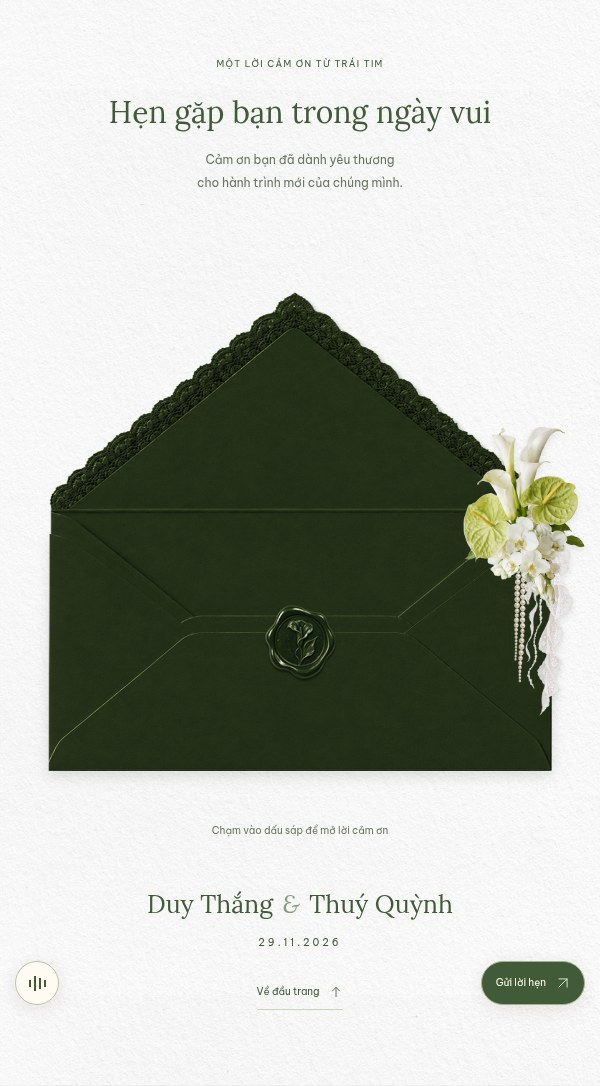
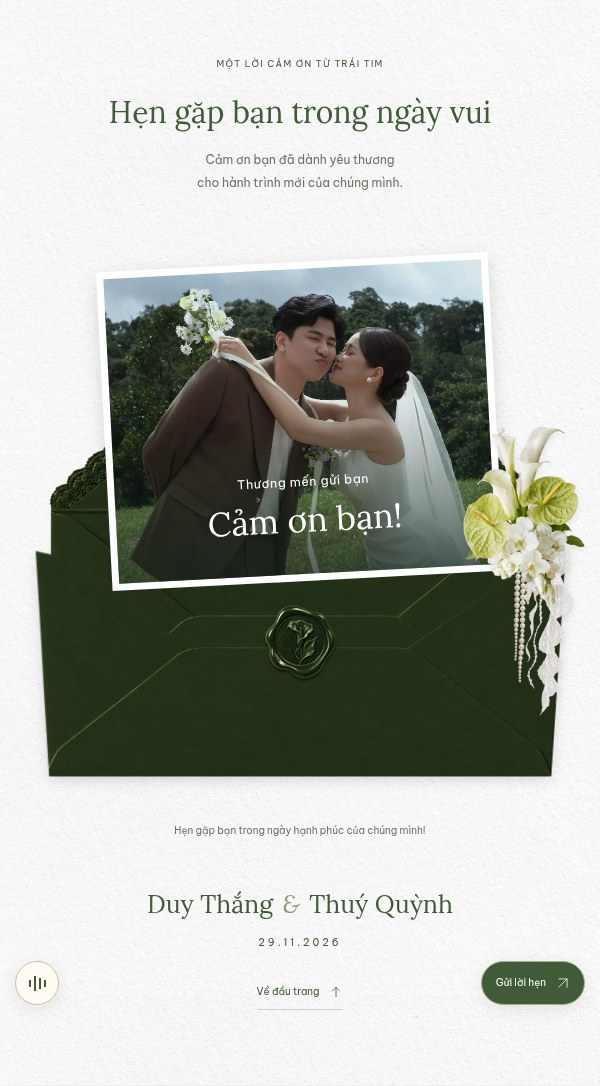
Keep the final green thank-you envelope always open with its photo

diff --git a/src/wedding.css b/src/wedding.css
@@ -47,25 +47,22 @@
 .gallery-item{flex:0 0 calc((100% - 36px)/5);aspect-ratio:1;border:2px solid transparent;padding:3px;background:transparent;scroll-snap-align:center;transition:border-color .2s,opacity .2s;opacity:.65;min-width:0}
 .gallery-item[aria-pressed=true]{border-color:var(--wine);opacity:1}.gallery-item:hover,.gallery-item:focus-visible{opacity:1}.gallery-item img{width:100%;height:100%;object-fit:cover;object-position:center 40%}
 .album-hint{text-align:center;font:9px/1.9 var(--sans);color:var(--muted);margin-top:15px}
-.rsvp-section,.wishes-section{padding-top:35px}.rsvp-section{border-top:1px solid #d7e0cb}.rsvp-section .section-script{font-size:36px}form{margin-top:26px;color:var(--ink)}form>label,legend{font:11px/1.7 var(--sans);display:block;margin-bottom:9px}input:not([type=radio]),select,textarea{width:100%;border:1px solid #bacba9;background:#ffffff80;border-radius:0;padding:13px 12px;min-height:49px;font:16px/1.6 var(--sans);color:var(--ink);margin-bottom:22px;resize:vertical}input:focus,textarea:focus,select:focus{outline:1px solid var(--wine)}fieldset{padding:0;border:0;margin:0 0 23px;display:flex;flex-wrap:wrap;gap:12px}legend{margin-bottom:10px}.radio-label{font:10px/1.8 var(--sans);display:flex;align-items:center;gap:6px}.radio-label input{accent-color:var(--wine);width:16px;height:16px;margin:0}form>.primary{width:100%;justify-content:space-between;font-size:10px;padding:14px 18px}.form-note{font:9px/1.9 var(--sans);color:var(--muted);margin-top:14px}#rsvp-result,#wish-result{font:11px/1.8 var(--sans);margin-top:10px;color:var(--wine)}.wishes-section>.section-note{margin-bottom:30px}.wishes-list{max-height:540px;overflow:auto;margin-top:25px}.wish-card{border-bottom:1px solid #d6dfcb;padding:24px 0}.wish-card p{font:italic 21px/1.65 var(--serif);color:#627356;overflow-wrap:anywhere}.wish-card h3{font:11px/1.8 var(--sans);margin-top:14px}.wish-card small{font:8px/1.8 var(--sans);letter-spacing:.7px;color:var(--muted)}.gift-section{text-align:center;padding-top:25px}.gift-section p{font-size:12px;margin:18px 0 22px}/* A second, interactive green envelope holds the closing photograph. */
+.rsvp-section,.wishes-section{padding-top:35px}.rsvp-section{border-top:1px solid #d7e0cb}.rsvp-section .section-script{font-size:36px}form{margin-top:26px;color:var(--ink)}form>label,legend{font:11px/1.7 var(--sans);display:block;margin-bottom:9px}input:not([type=radio]),select,textarea{width:100%;border:1px solid #bacba9;background:#ffffff80;border-radius:0;padding:13px 12px;min-height:49px;font:16px/1.6 var(--sans);color:var(--ink);margin-bottom:22px;resize:vertical}input:focus,textarea:focus,select:focus{outline:1px solid var(--wine)}fieldset{padding:0;border:0;margin:0 0 23px;display:flex;flex-wrap:wrap;gap:12px}legend{margin-bottom:10px}.radio-label{font:10px/1.8 var(--sans);display:flex;align-items:center;gap:6px}.radio-label input{accent-color:var(--wine);width:16px;height:16px;margin:0}form>.primary{width:100%;justify-content:space-between;font-size:10px;padding:14px 18px}.form-note{font:9px/1.9 var(--sans);color:var(--muted);margin-top:14px}#rsvp-result,#wish-result{font:11px/1.8 var(--sans);margin-top:10px;color:var(--wine)}.wishes-section>.section-note{margin-bottom:30px}.wishes-list{max-height:540px;overflow:auto;margin-top:25px}.wish-card{border-bottom:1px solid #d6dfcb;padding:24px 0}.wish-card p{font:italic 21px/1.65 var(--serif);color:#627356;overflow-wrap:anywhere}.wish-card h3{font:11px/1.8 var(--sans);margin-top:14px}.wish-card small{font:8px/1.8 var(--sans);letter-spacing:.7px;color:var(--muted)}.gift-section{text-align:center;padding-top:25px}.gift-section p{font-size:12px;margin:18px 0 22px}/* An always-open green envelope frames the closing photograph. */
 .thank-you{position:relative;padding:50px 0 75px;text-align:center;overflow:hidden;background:#fffefa url('/images/chinh-linh/paper.png') center/100% auto;color:var(--wine)}
 .thank-you>.eyebrow{font-size:9px;letter-spacing:1.3px}
 .thank-you>h2{font:400 clamp(22px,5.7vw,30px)/1.5 var(--serif);margin:15px 25px 0}
 .closing-intro{font:12px/1.9 var(--sans);color:var(--muted);margin:14px 20px 0}
 .closing-envelope{position:relative;isolation:isolate;aspect-ratio:420/460;margin:24px auto 0;width:100%;max-width:560px;perspective:1200px;container-type:inline-size}
 .closing-back{position:absolute;left:5%;top:12%;width:90%;height:78%;object-fit:fill;filter:hue-rotate(95deg) saturate(.45) brightness(1.12);z-index:0}
-.closing-photo{position:absolute;left:15%;top:29%;width:70%;height:52%;padding:7px;background:white;box-shadow:0 6px 18px #233a242b;z-index:1;opacity:0;visibility:hidden;transform:translateY(30%) rotate(-3deg);transition:transform 1.3s cubic-bezier(.2,.7,.2,1),opacity .5s,visibility .5s}
+.closing-photo{position:absolute;left:15%;top:29%;width:70%;height:52%;padding:7px;background:white;box-shadow:0 6px 18px #233a242b;z-index:1;transform:translateY(-42%) rotate(-3deg)}
 .closing-photo>img{object-position:62% center}.closing-photo:after{content:'';position:absolute;inset:45% 7px 7px;background:linear-gradient(transparent,#16251bb3)}
 .closing-photo>div{position:absolute;bottom:12%;left:10%;right:10%;z-index:1;color:white;display:flex;flex-direction:column;gap:4px}
 .closing-photo>div>span{font:400 2.2cqw/1.6 var(--sans);letter-spacing:.6px}.closing-photo strong{font:400 6cqw/1.4 var(--serif)}
-.closing-front{position:absolute;left:5%;top:51%;width:90%;height:39%;z-index:3;transform-origin:center bottom;transition:transform 1.3s cubic-bezier(.2,.7,.2,1);filter:drop-shadow(0 5px 7px #27382326)}
+.closing-front{position:absolute;left:5%;top:51%;width:90%;height:39%;z-index:3;transform-origin:center bottom;transform:rotateX(-16deg) translateY(3%);filter:drop-shadow(0 5px 7px #27382326)}
 .closing-front>img{object-fit:fill;filter:hue-rotate(95deg) saturate(.45) brightness(1.12)}
 .closing-flower{position:absolute;right:-2%;top:31%;width:24%;height:53%;object-fit:contain;z-index:4;pointer-events:none;filter:drop-shadow(0 4px 3px #2c40231c)}
-#closing-seal{position:absolute;left:5%;top:51%;width:90%;height:39%;border:0;padding:0;background:transparent;z-index:5;cursor:pointer}
+#closing-seal{position:absolute;left:5%;top:51%;width:90%;height:39%;border:0;padding:0;background:transparent;z-index:5;pointer-events:none}
 #closing-seal>img{position:absolute;left:42%;top:32%;width:16%;height:30%;object-fit:contain;filter:hue-rotate(95deg) saturate(.45) brightness(1.12) drop-shadow(0 3px 2px #24381933);transition:transform .4s}
-#closing-seal:hover>img{transform:scale(1.07)}#closing-seal:focus-visible{outline:2px solid var(--wine);outline-offset:5px}
-.closing-envelope.is-open .closing-photo{opacity:1;visibility:visible;transform:translateY(-42%) rotate(-3deg)}
-.closing-envelope.is-open .closing-front{transform:rotateX(-16deg) translateY(3%)}
 .closing-status{font:10px/1.9 var(--sans);margin:-11px 25px 24px;color:var(--muted);min-height:38px}
 .closing-signature{font:400 clamp(18px,4.8vw,25px)/1.7 var(--serif);margin:0 15px}.closing-signature>span{font-style:italic;color:#8a9c7e;margin:0 3px}
 .closing-date{display:block;font:10px/1.8 var(--sans);letter-spacing:3px;margin-top:9px}

diff --git a/tests/ui/invitation.spec.js b/tests/ui/invitation.spec.js
@@ -303,35 +303,29 @@ test('formal invitation keeps family details, event and green flowers inside the
  expect(marker.color).toBe('rgb(65, 91, 56)')
 })
 
-test('closing green envelope reveals one photo and supports keyboard, replay and reduced motion',async({page},testInfo)=>{
- await page.setViewportSize({width:390,height:844})
+test('closing envelope is always open with one visible photo and no opening control',async({page},testInfo)=>{
  await enterWedding(page)
- await page.locator('#loi-cam-on').scrollIntoViewIfNeeded()
- const seal=page.locator('#closing-seal'),photo=page.locator('#closing-photo')
- await expect(seal).toHaveAttribute('aria-expanded','false')
- await expect(photo).toBeHidden()
- await expect(page.locator('#loi-cam-on .closing-flower')).toHaveAttribute('src',/floral-white/)
- await seal.focus()
- await page.keyboard.press('Enter')
- await expect(seal).toHaveAttribute('aria-expanded','true')
- await expect(photo).toHaveAttribute('aria-hidden','false')
- await expect(photo).toBeVisible()
- await expect(photo.locator('img')).toHaveCount(1)
- await photo.locator('img').evaluate(img=>img.decode())
- await page.locator('#loi-cam-on').screenshot({path:testInfo.outputPath('closing-open.png')})
- for(const width of [320,390,1440]){
-  await page.setViewportSize({width,height:900})
-  const bounds=await photo.boundingBox(),envelope=await page.locator('#closing-envelope').boundingBox()
-  expect(bounds.x).toBeGreaterThan(envelope.x)
-  expect(bounds.x+bounds.width).toBeLessThan(envelope.x+envelope.width)
-  expect(bounds.y).toBeGreaterThanOrEqual(envelope.y)
-  expect(await page.evaluate(()=>document.documentElement.scrollWidth)).toBe(width)
+ await expect(page.locator('#loi-cam-on button')).toHaveCount(0)
+ await expect(page.locator('#loi-cam-on')).not.toContainText('Chạm vào dấu sáp')
+ const photo=page.locator('#closing-photo')
+ for(const motion of ['reduce','no-preference']){
+  await page.emulateMedia({reducedMotion:motion})
+  for(const width of [320,390,1440]){
+   await page.setViewportSize({width,height:900})
+   await page.locator('#loi-cam-on').scrollIntoViewIfNeeded()
+   await expect(photo).toBeVisible()
+   await expect(photo.locator('img')).toHaveCount(1)
+   await photo.locator('img').evaluate(img=>img.decode())
+   const bounds=await photo.boundingBox(),envelope=await page.locator('#closing-envelope').boundingBox()
+   expect(bounds.x).toBeGreaterThan(envelope.x)
+   expect(bounds.x+bounds.width).toBeLessThan(envelope.x+envelope.width)
+   expect(bounds.y).toBeGreaterThanOrEqual(envelope.y)
+   expect(await page.evaluate(()=>document.documentElement.scrollWidth)).toBe(width)
+   if(motion==='reduce')await page.locator('#loi-cam-on').screenshot({path:testInfo.outputPath(`closing-${width}.png`)})
+  }
  }
- await seal.focus()
- await page.keyboard.press('Space')
- await expect(photo).toBeHidden()
- await page.emulateMedia({reducedMotion:'no-preference'})
- await seal.click()
- await expect(photo).toHaveCSS('opacity','1')
- await expect(seal).toHaveAttribute('aria-expanded','true')
+ await page.reload()
+ await openGate(page)
+ await page.locator('#loi-cam-on').scrollIntoViewIfNeeded()
+ await expect(photo).toBeVisible()
 })

diff --git a/index.html b/index.html
@@ -100,12 +100,12 @@
  <p class="closing-intro">Cảm ơn bạn đã dành yêu thương<br>cho hành trình mới của chúng mình.</p>
  <div id="closing-envelope" class="closing-envelope">
   <img class="closing-back" src="/images/chinh-linh/envelope-back.png" alt="" aria-hidden="true"/>
-  <div id="closing-photo" class="closing-photo" aria-hidden="true"><img src="/images/19.webp" alt="Duy Thắng và Thuý Quỳnh bên nhau trong ngày hạnh phúc" loading="lazy"/><div><span>Thương mến gửi bạn</span><strong>Cảm ơn bạn!</strong></div></div>
+  <div id="closing-photo" class="closing-photo"><img src="/images/19.webp" alt="Duy Thắng và Thuý Quỳnh bên nhau trong ngày hạnh phúc" loading="lazy"/><div><span>Thương mến gửi bạn</span><strong>Cảm ơn bạn!</strong></div></div>
   <div class="closing-front"><img src="/images/chinh-linh/envelope-front.png" alt="" aria-hidden="true"/></div>
   <img class="closing-flower" src="/images/floral-white/flowers-right.png" alt="" aria-hidden="true"/>
-  <button id="closing-seal" aria-expanded="false" aria-controls="closing-photo" aria-label="Mở thiệp cảm ơn để xem ảnh"><img src="/images/chinh-linh/wax-seal.png" alt=""/></button>
+  <span id="closing-seal" aria-hidden="true"><img src="/images/chinh-linh/wax-seal.png" alt=""/></span>
  </div>
- <p id="closing-status" class="closing-status" role="status">Chạm vào dấu sáp để mở lời cảm ơn</p>
+ <p class="closing-status">Hẹn gặp bạn trong ngày hạnh phúc của chúng mình!</p>
  <p class="closing-signature">Duy Thắng <span>&</span> Thuý Quỳnh</p><span class="closing-date">29.11.2026</span>
  <a class="back-to-top" href="#">Về đầu trang <span data-icon="arrow-up"></span></a>
 </footer>

diff --git a/src/main.js b/src/main.js
@@ -111,14 +111,6 @@ $('#gift-button').addEventListener('click',()=>{
  openDialog($('#gift-dialog'))
 })
 $('#gift-to-wishes').addEventListener('click',()=>{closeDialog($('#gift-dialog'));$('#loi-chuc').scrollIntoView({behavior:reduced.matches?'instant':'smooth'});$('#wish-name').focus({preventScroll:true})})
-$('#closing-seal').addEventListener('click',()=>{
- const opened=$('#closing-seal').getAttribute('aria-expanded')!=='true'
- $('#closing-seal').setAttribute('aria-expanded',String(opened))
- $('#closing-seal').setAttribute('aria-label',opened?'Khép thiệp cảm ơn':'Mở thiệp cảm ơn để xem ảnh')
- $('#closing-envelope').classList.toggle('is-open',opened)
- $('#closing-photo').setAttribute('aria-hidden',String(!opened))
- $('#closing-status').textContent=opened?'Hẹn gặp bạn trong ngày hạnh phúc của chúng mình!':'Chạm vào dấu sáp để mở lời cảm ơn'
-})
 let observer
 if('IntersectionObserver' in window){document.body.classList.add('motion-ready');observer=new IntersectionObserver(entries=>entries.forEach(entry=>{if(entry.isIntersecting){entry.target.classList.add('visible');observer.unobserve(entry.target)}}),{threshold:.08});document.querySelectorAll('.reveal:not([hidden])').forEach(el=>observer.observe(el))}
 if(window.matchMedia('(hover: hover) and (pointer: fine)').matches){document.querySelectorAll('.tilt').forEach(el=>{el.addEventListener('pointermove',event=>{if(reduced.matches)return;const r=el.getBoundingClientRect();const x=(event.clientX-r.left)/r.width-.5;const y=(event.clientY-r.top)/r.height-.5;el.style.transform=`perspective(1200px) rotateX(${-y*5}deg) rotateY(${x*5}deg) translateY(-3px)`});el.addEventListener('pointerleave',()=>el.style.transform='')})}

diff --git a/README.md b/README.md
@@ -25,7 +25,7 @@ Có thể dùng Chromium hệ thống với `CHROMIUM_PATH=/usr/bin/chromium npm
 2. Chạm vào dấu sáp/phong bì: mặt phong bì hạ trong phối cảnh, giấy mời và ảnh trượt lên, nhạc bắt đầu và màn mở đầu chuyển vào thiệp. Tôn trọng reduced motion; lỗi phát nhạc không chặn luồng vào.
 3. Trang 1: bố cục phong bì, giấy ren Save the Date, tên hai bạn, ngày cưới và đếm ngược.
 4. Trang 2: ảnh cưới toàn khung với “We are Getting Married”.
-5. Tiếp theo: hai gia đình và khung giấy ren chứa tên/ngày giờ/địa điểm, lịch trình dự kiến, lịch tháng đánh dấu ngày 29 bằng trái tim, album một ảnh vuông lớn cùng dải ảnh nhỏ, RSVP, lời chúc, mừng cưới và phong thư cảm ơn mở ra một ảnh cưới. Đã bỏ phần kể chuyện tình yêu.
+5. Tiếp theo: hai gia đình và khung giấy ren chứa tên/ngày giờ/địa điểm, lịch trình dự kiến, lịch tháng đánh dấu ngày 29 bằng trái tim, album một ảnh vuông lớn cùng dải ảnh nhỏ, RSVP, lời chúc, mừng cưới và phong thư cảm ơn luôn mở sẵn với một ảnh cưới. Đã bỏ phần kể chuyện tình yêu.
 
 Thiệp cá nhân hoá: thêm `?to=Bạn%20Ngọc`. Tên khách được hiển thị an toàn bằng textContent. Mỗi lần tải lại link đều trở về màn mở thiệp.
 
@@ -81,4 +81,4 @@ Trang 3 theo ảnh tham chiếu: hai gia đình nằm phía trên, tên cô dâu
 
 Lora cho tên và tiêu đề, Be Vietnam Pro cho nội dung/biểu mẫu; font tự lưu trong bản build qua Fontsource, gồm tập ký tự tiếng Việt. Không dùng font thư pháp uốn lượn.
 
-Album có một ảnh vuông lớn và 18 ảnh thu nhỏ trong dải cuộn ngang. Chọn ảnh nhỏ hoặc dùng nút/phím điều hướng để đổi ảnh lớn; chạm ảnh lớn mở ảnh đầy đủ trong lightbox. Phong thư cuối có nút dấu sáp: mở/khép ảnh, hỗ trợ bàn phím và reduced motion.
+Album có một ảnh vuông lớn và 18 ảnh thu nhỏ trong dải cuộn ngang. Chọn ảnh nhỏ hoặc dùng nút/phím điều hướng để đổi ảnh lớn; chạm ảnh lớn mở ảnh đầy đủ trong lightbox. Phong thư cuối luôn mở sẵn với một ảnh cưới; dấu sáp chỉ trang trí, không cần bấm mở.
